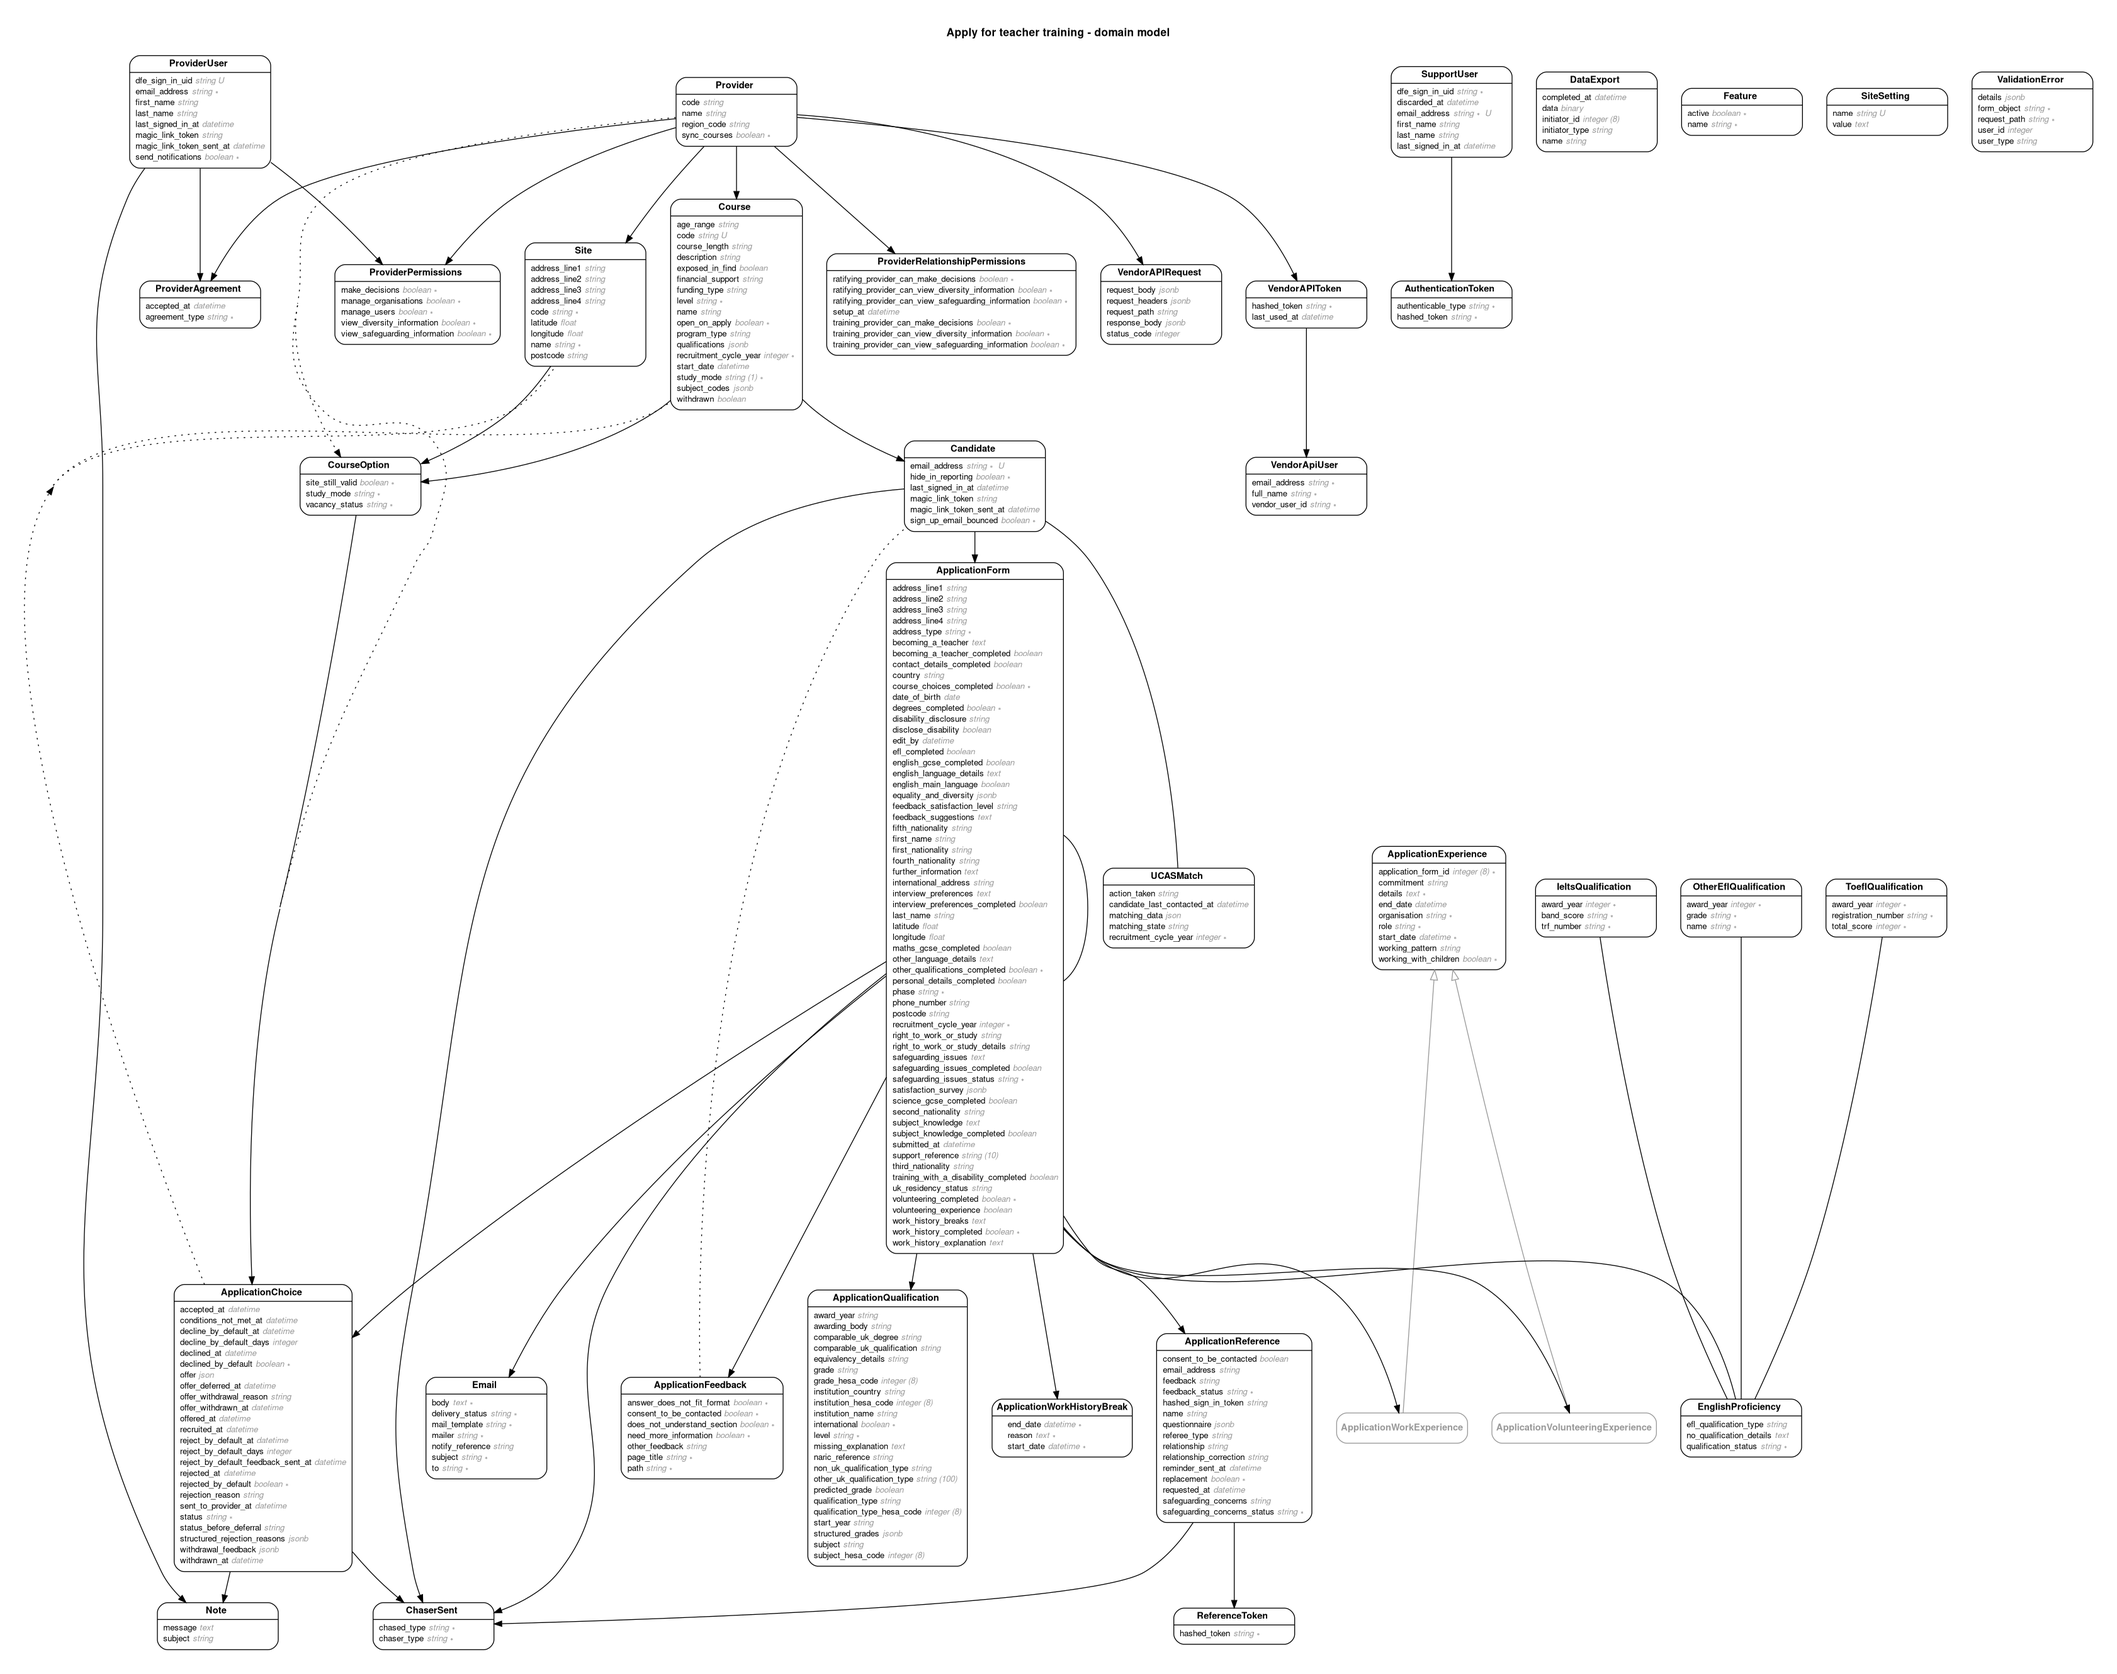
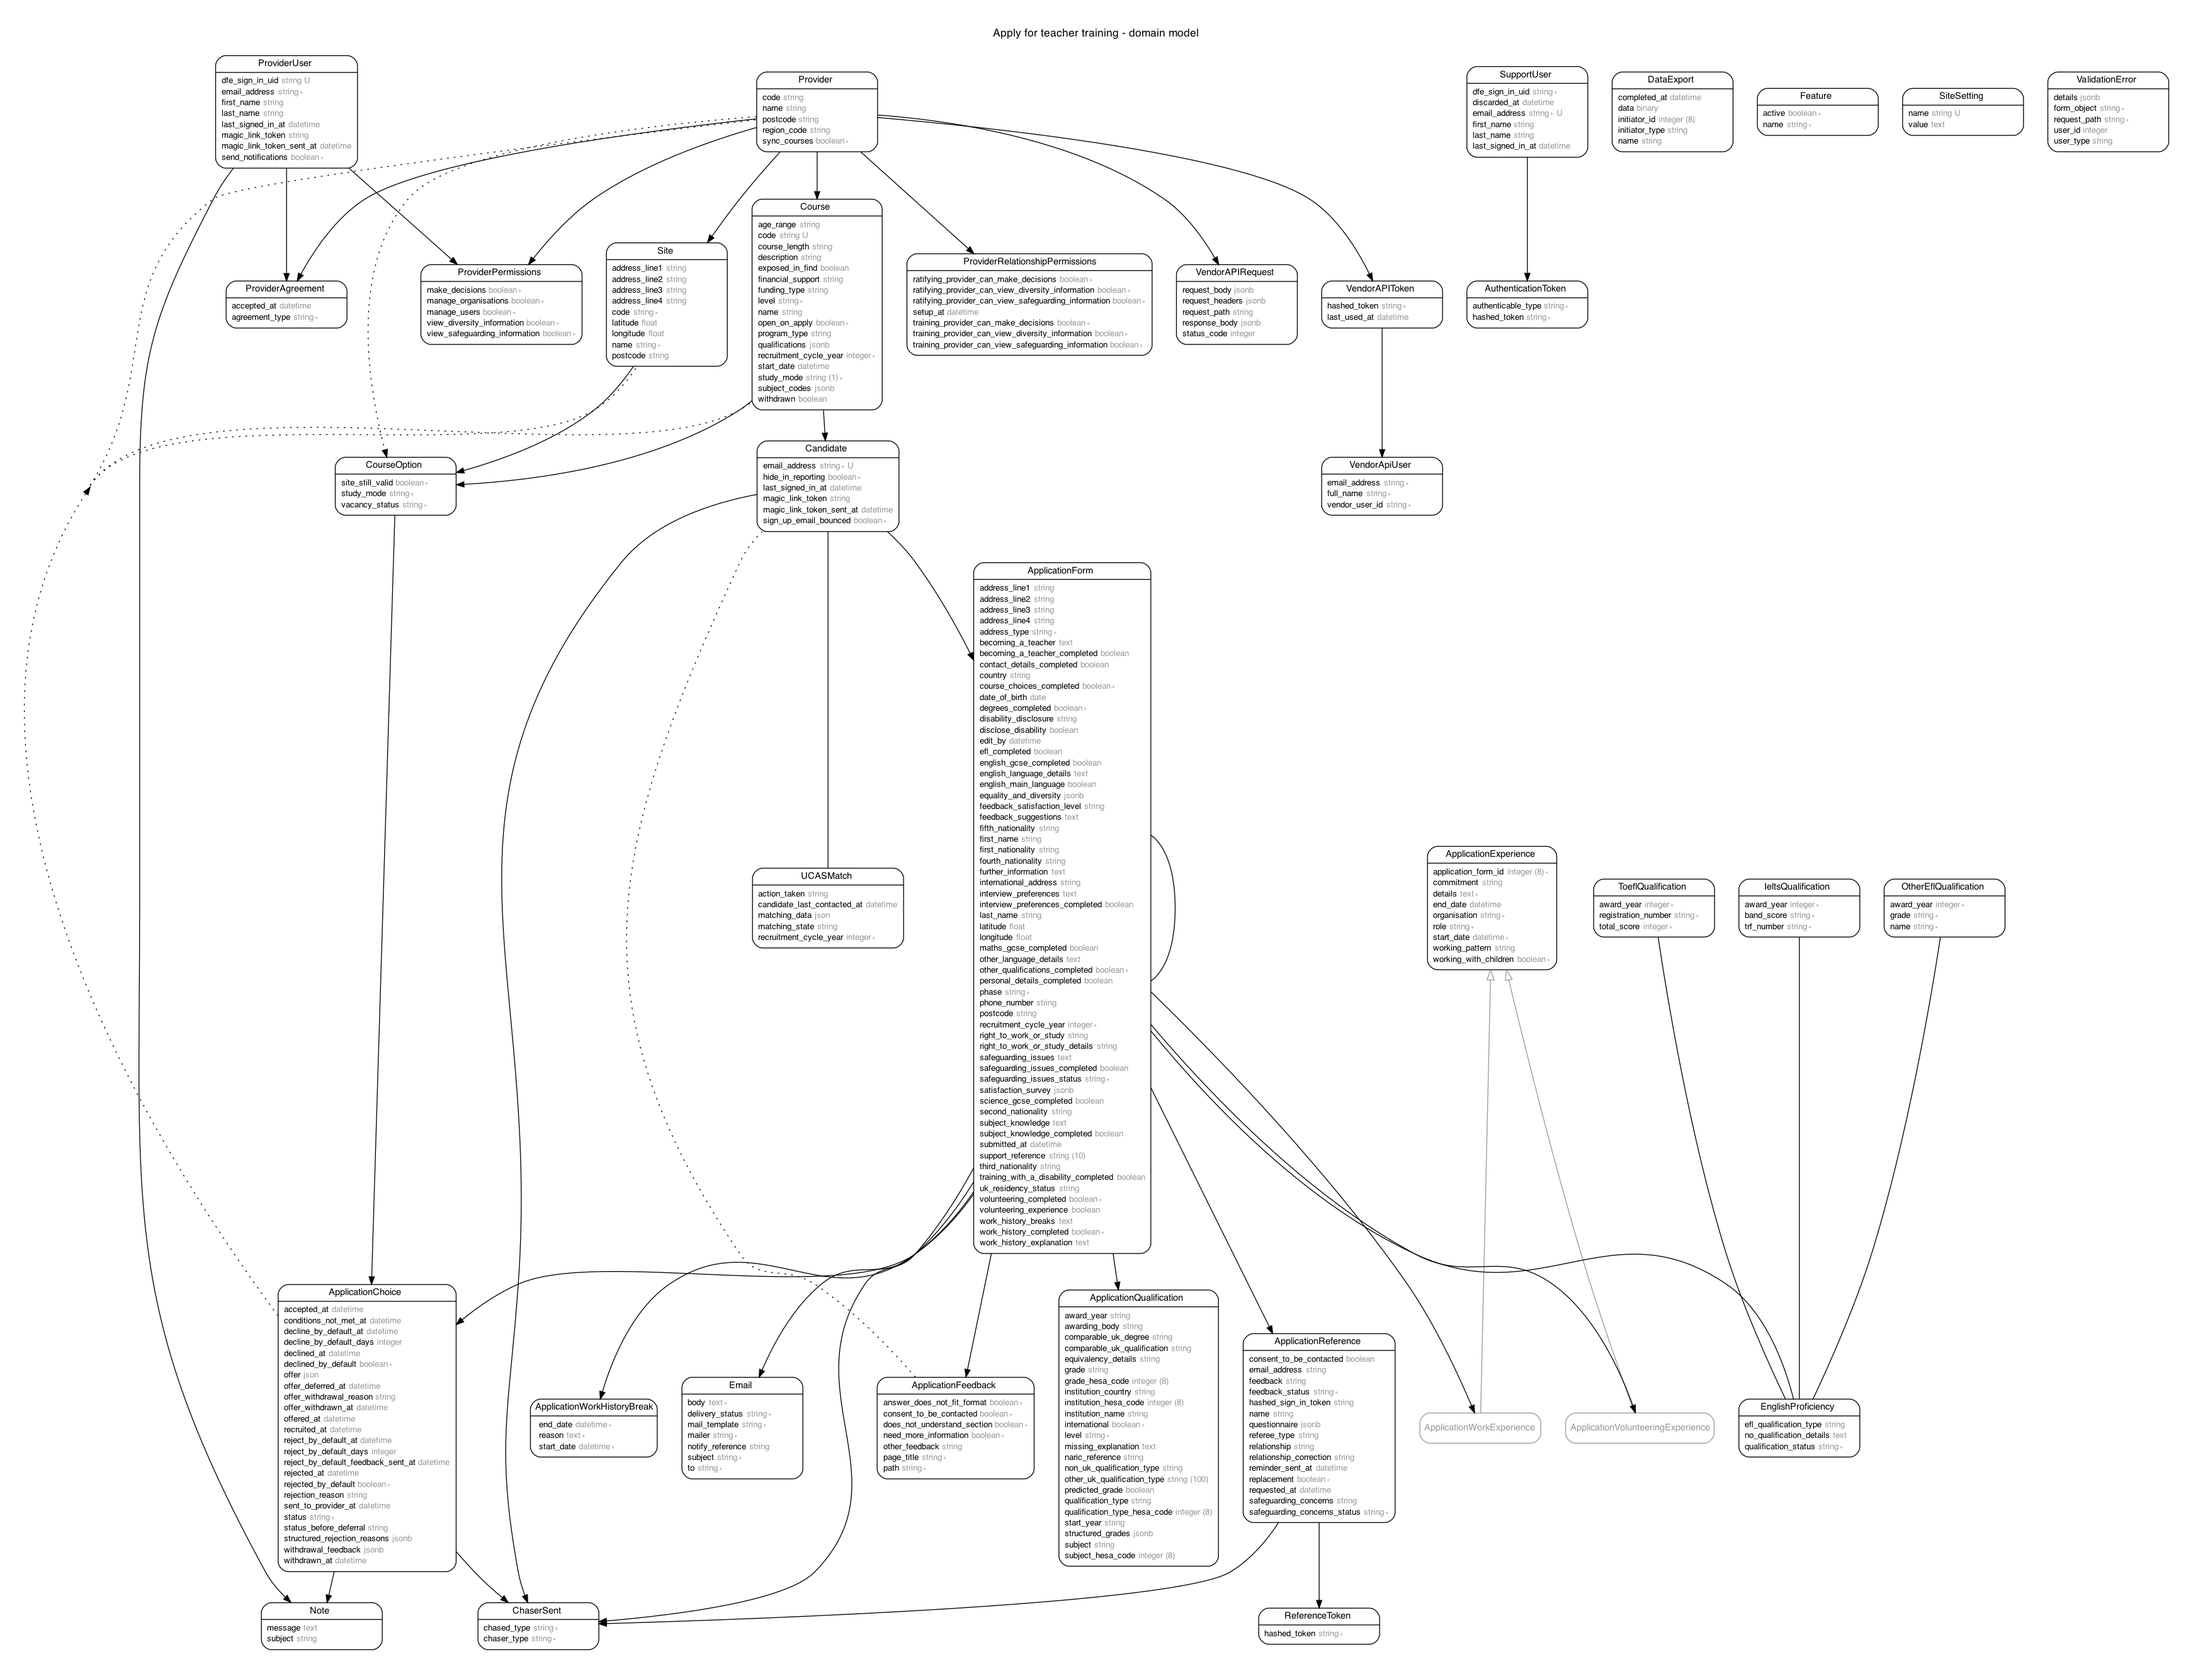
Add postcode to the providers table

diff --git a/db/schema.rb b/db/schema.rb
@@ -10,7 +10,7 @@
 #
 # It's strongly recommended that you check this file into your version control system.
 
-ActiveRecord::Schema.define(version: 2020_11_24_084022) do
+ActiveRecord::Schema.define(version: 2020_11_24_132410) do
 
   # These are extensions that must be enabled in order to support this database
   enable_extension "pgcrypto"
@@ -426,6 +426,7 @@ ActiveRecord::Schema.define(version: 2020_11_24_084022) do
     t.datetime "updated_at", precision: 6, null: false
     t.boolean "sync_courses", default: false, null: false
     t.string "region_code"
+    t.string "postcode"
     t.index ["code"], name: "index_providers_on_code", unique: true
   end
 

diff --git a/db/migrate/20201124132410_add_postcode_to_providers.rb b/db/migrate/20201124132410_add_postcode_to_providers.rb
@@ -1,0 +1,5 @@
+class AddPostcodeToProviders < ActiveRecord::Migration[6.0]
+  def change
+    add_column :providers, :postcode, :string
+  end
+end
